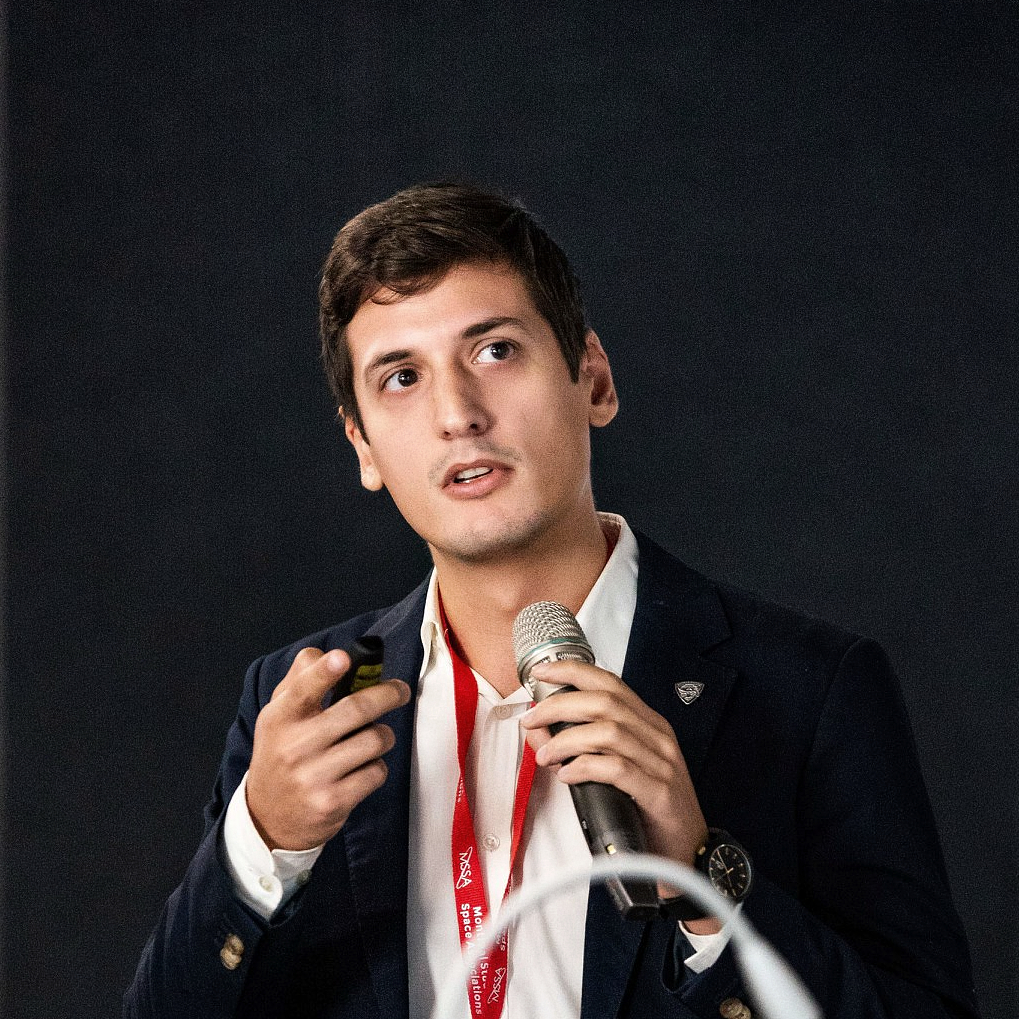
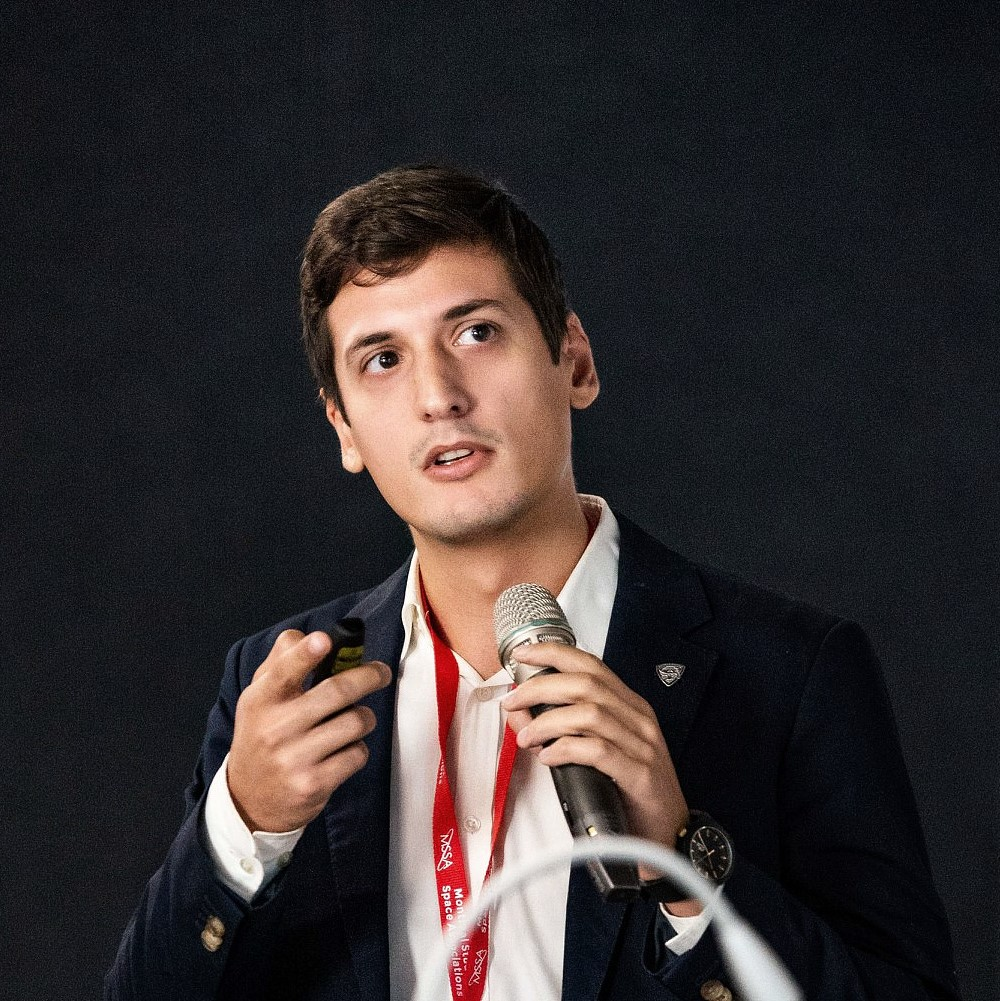
updated bio and photo

diff --git a/_pages/about.md b/_pages/about.md
@@ -2,24 +2,16 @@
 layout: about
 title: about
 permalink: /
-subtitle: <a href='#'>Affiliations</a>. Address. Contacts. Motto. Etc.
+subtitle: Ph.D. Candidate, Graduate Researcher at [Toronto Robotics and Artificial Intelligence Laboratory](https://www.trailab.utias.utoronto.ca/).
 
 profile:
   align: right
   image: prof_pic.jpg
   image_circular: false # crops the image to make it circular
-  more_info: >
-    <p>555 your office number</p>
-    <p>123 your address street</p>
-    <p>Your City, State 12345</p>
+  more_info:
 
-news: true # includes a list of news items
-selected_papers: true # includes a list of papers marked as "selected={true}"
+news: false # includes a list of news items
+selected_papers: false # includes a list of papers marked as "selected={true}"
 social: true # includes social icons at the bottom of the page
 ---
-
-Write your biography here. Tell the world about yourself. Link to your favorite [subreddit](http://reddit.com). You can put a picture in, too. The code is already in, just name your picture `prof_pic.jpg` and put it in the `img/` folder.
-
-Put your address / P.O. box / other info right below your picture. You can also disable any of these elements by editing `profile` property of the YAML header of your `_pages/about.md`. Edit `_bibliography/papers.bib` and Jekyll will render your [publications page](/al-folio/publications/) automatically.
-
-Link to your social media connections, too. This theme is set up to use [Font Awesome icons](https://fontawesome.com/) and [Academicons](https://jpswalsh.github.io/academicons/), like the ones below. Add your Facebook, Twitter, LinkedIn, Google Scholar, or just disable all of them.
+Robotic perception researcher with 7 years of robotics R\&D experience. My work focuses on robotic perception, leveraging 3D computer vision and machine learning to understand dynamic environments. My research aims to push the boundaries of how robots perceive, interpret, and interact with the world around them.
